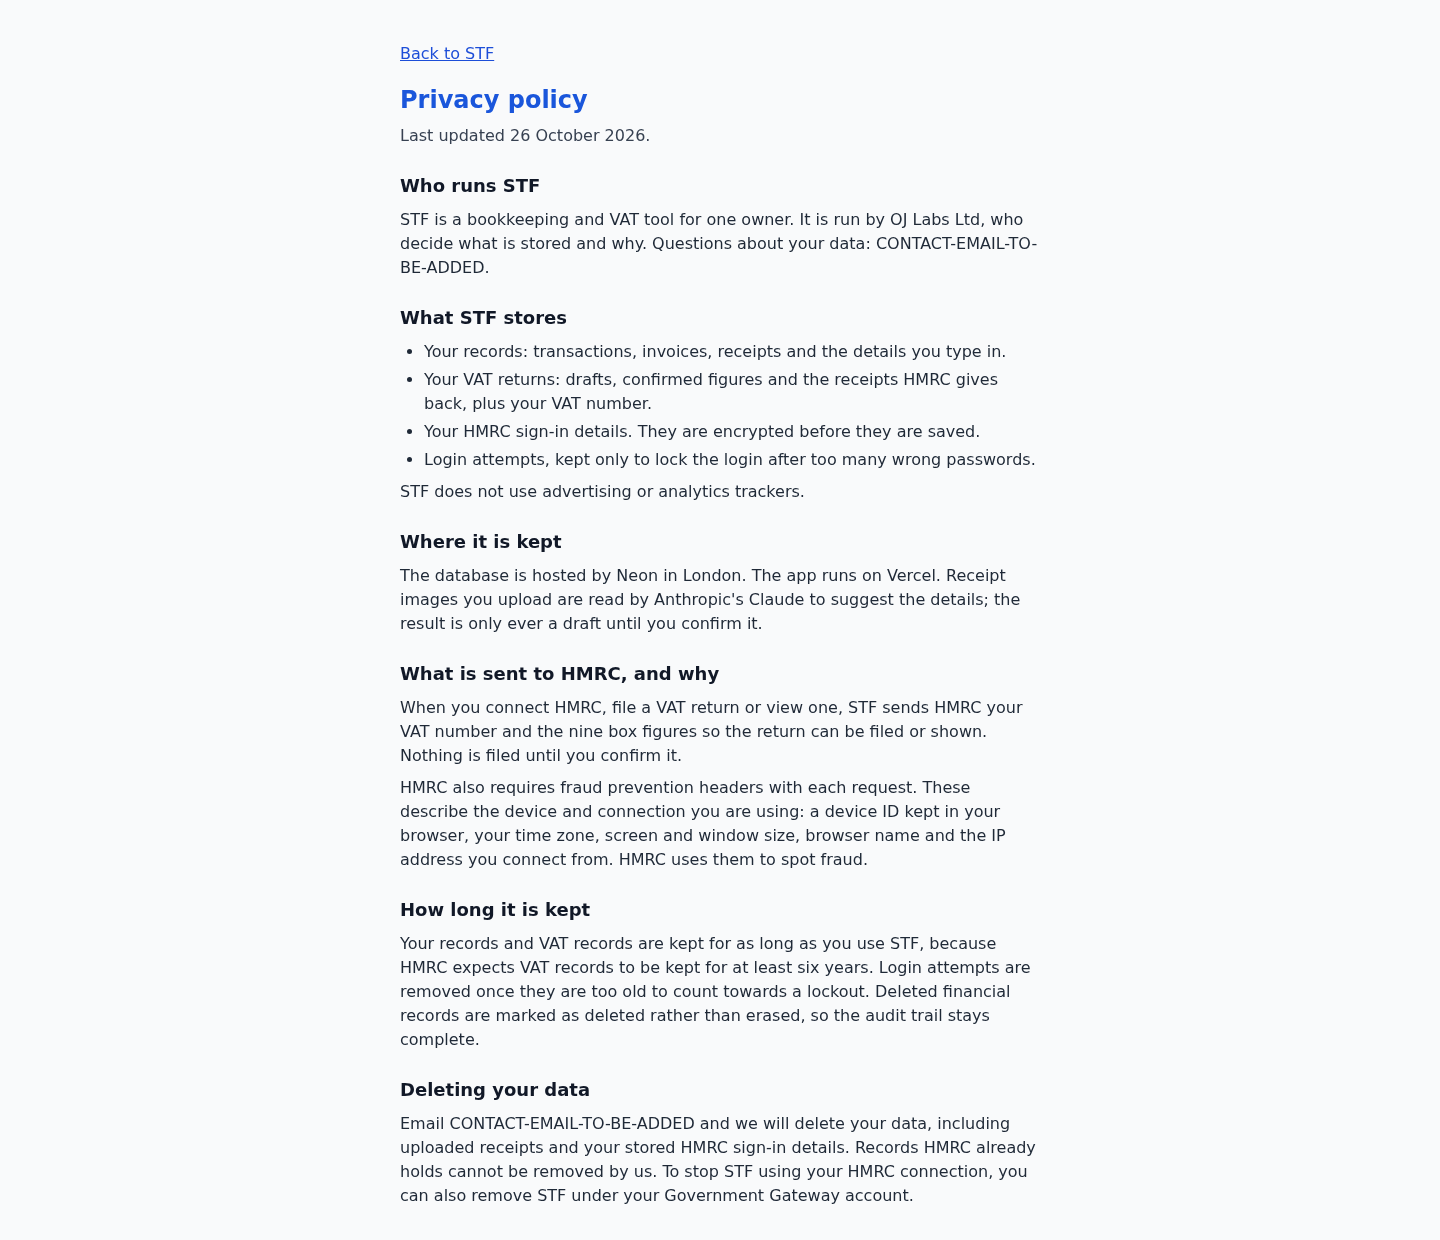
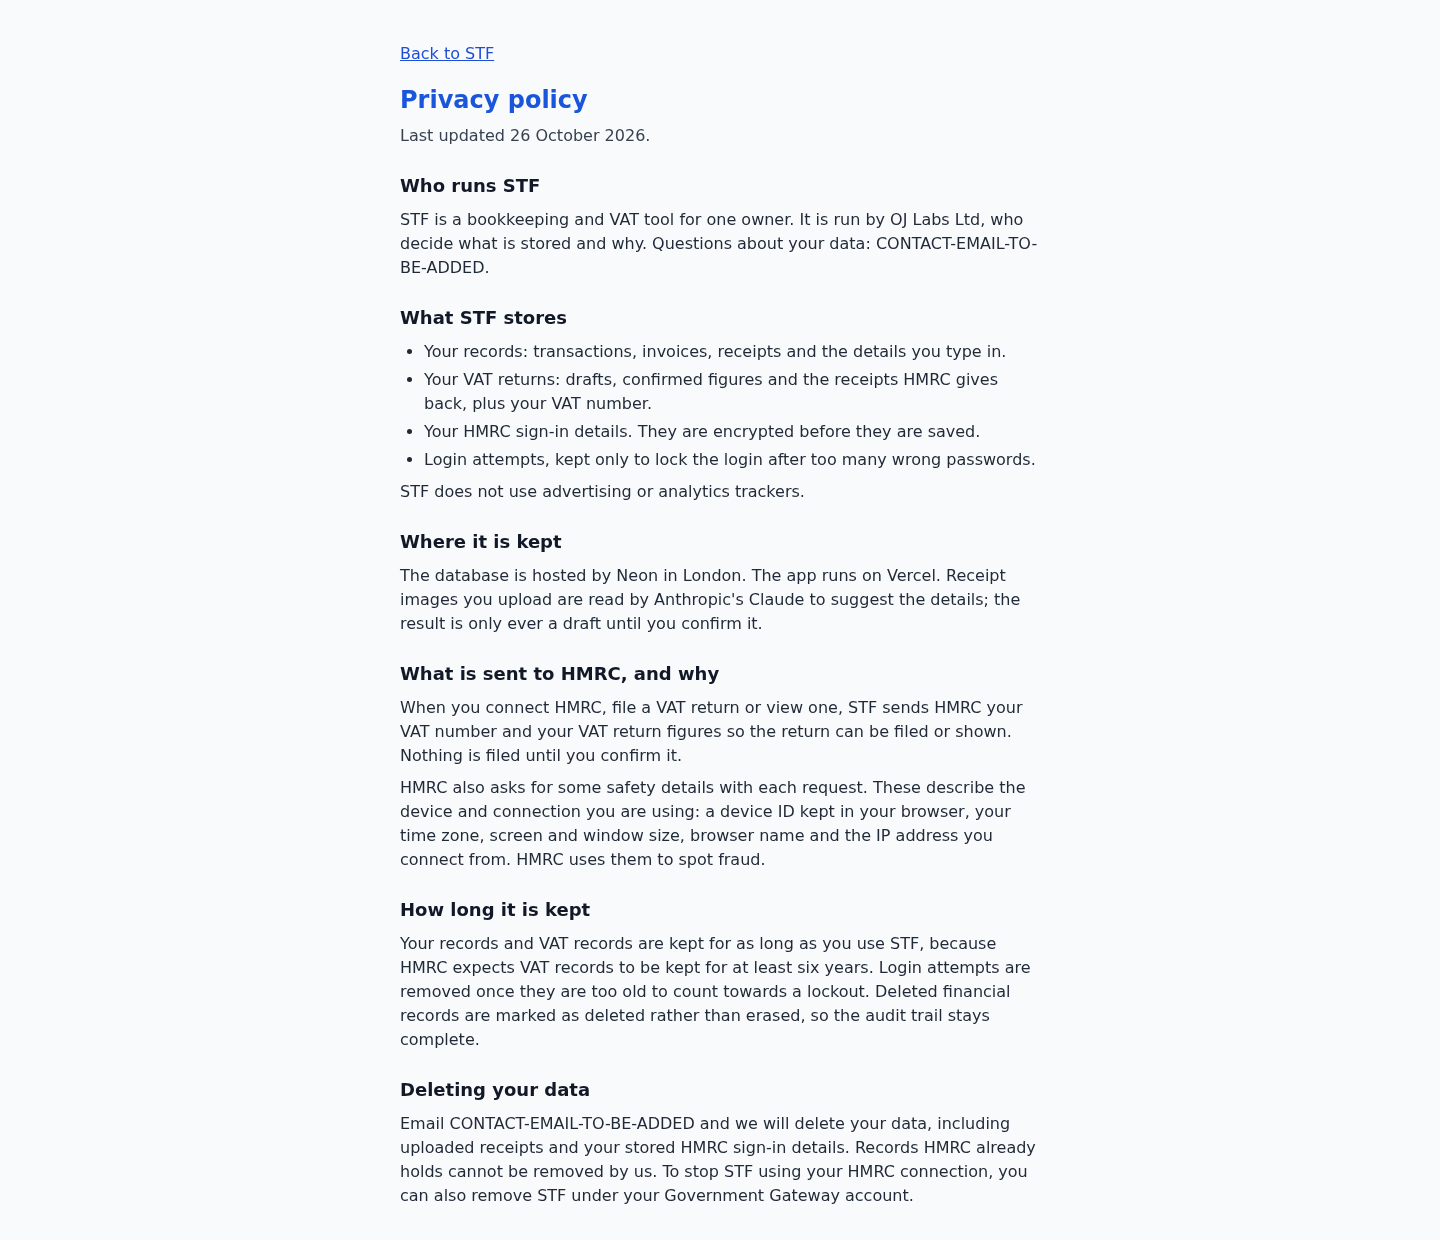
STF-120: retake screenshots from final code, plain Categories and privacy wording, empty HMRC business message

Changed region(s): [[0.2812, 0.5823, 0.7188, 0.7048]]

diff --git a/src/pages/ChartOfAccountsSection.test.tsx b/src/pages/ChartOfAccountsSection.test.tsx
@@ -77,7 +77,7 @@ describe('ChartOfAccountsSection', () => {
     fireEvent.change(screen.getByLabelText('Category number'), { target: { value: '6700' } });
     fireEvent.change(screen.getByLabelText('Name'), { target: { value: 'Parking' } });
     fireEvent.change(screen.getByLabelText('Tax category'), { target: { value: 'travel' } });
-    fireEvent.click(screen.getByRole('button', { name: 'Add account' }));
+    fireEvent.click(screen.getByRole('button', { name: 'Add category' }));
     expect(await screen.findByText('Parking')).toBeInTheDocument();
     expect(requests[0].body).toEqual({ code: '6700', name: 'Parking', accountType: 'expense', taxCategory: 'travel' });
   });
@@ -95,7 +95,7 @@ describe('ChartOfAccountsSection', () => {
     await screen.findByText('Travel');
     fireEvent.change(screen.getByLabelText('Category number'), { target: { value: '6000' } });
     fireEvent.change(screen.getByLabelText('Name'), { target: { value: 'Trips' } });
-    fireEvent.click(screen.getByRole('button', { name: 'Add account' }));
+    fireEvent.click(screen.getByRole('button', { name: 'Add category' }));
     const alert = await screen.findByRole('alert');
     expect(alert).toHaveTextContent('That code is already used');
     expect(screen.getByLabelText('Category number')).toHaveAccessibleDescription(alert.textContent!);
@@ -131,12 +131,12 @@ describe('ChartOfAccountsSection', () => {
   it('says so when there are no accounts to show', async () => {
     active = [];
     render(<ChartOfAccountsSection />);
-    expect(await screen.findByText('No accounts to show.')).toBeInTheDocument();
+    expect(await screen.findByText('No categories to show.')).toBeInTheDocument();
   });
 
   it('does not claim there are no accounts while they are loading', () => {
     render(<ChartOfAccountsSection />);
-    expect(screen.queryByText('No accounts to show.')).toBeNull();
+    expect(screen.queryByText('No categories to show.')).toBeNull();
   });
 
   it('uses no accounting jargon on screen', async () => {

diff --git a/src/pages/LegalPages.tsx b/src/pages/LegalPages.tsx
@@ -52,11 +52,11 @@ export function PrivacyPage() {
       </Section>
       <Section heading="What is sent to HMRC, and why">
         <p>
-          When you connect HMRC, file a VAT return or view one, STF sends HMRC your VAT number and the nine box figures
+          When you connect HMRC, file a VAT return or view one, STF sends HMRC your VAT number and your VAT return figures
           so the return can be filed or shown. Nothing is filed until you confirm it.
         </p>
         <p>
-          HMRC also requires fraud prevention headers with each request. These describe the device and connection you
+          HMRC also asks for some safety details with each request. These describe the device and connection you
           are using: a device ID kept in your browser, your time zone, screen and window size, browser name and the IP
           address you connect from. HMRC uses them to spot fraud.
         </p>

diff --git a/src/pages/ChartOfAccountsSection.tsx b/src/pages/ChartOfAccountsSection.tsx
@@ -94,7 +94,7 @@ export default function ChartOfAccountsSection() {
         Show archived categories
       </label>
 
-      {loaded && accounts.length === 0 && <p className="mt-4 text-gray-700">No accounts to show.</p>}
+      {loaded && accounts.length === 0 && <p className="mt-4 text-gray-700">No categories to show.</p>}
 
       {ACCOUNT_TYPE_GROUPS.map(({ type, label }) => {
         const group = accounts.filter((account) => account.accountType === type);
@@ -204,7 +204,7 @@ export default function ChartOfAccountsSection() {
             <option key={slug} value={slug}>{label}</option>
           ))}
         </select>
-        <button type="submit" className={`mt-4 ${primaryButton}`}>Add account</button>
+        <button type="submit" className={`mt-4 ${primaryButton}`}>Add category</button>
       </form>
     </section>
   );

diff --git a/src/pages/SettingsPage.tsx b/src/pages/SettingsPage.tsx
@@ -226,6 +226,9 @@ export default function SettingsPage() {
                   itsState.selectedBusinessId}
               </p>
             )}
+            {itsState && itsState.businesses.length === 0 && (
+              <p className="mt-2 text-gray-800">HMRC has no self-employment business on record for you yet.</p>
+            )}
             {itsState && !itsState.selectedBusinessId && itsState.businesses.length > 1 && (
               <form onSubmit={submitItsBusiness} className="mt-2">
                 <label htmlFor="its-business-select" className="block text-gray-900">Choose your self-employment business</label>

diff --git a/browser-evidence/STF-120/captions.md b/browser-evidence/STF-120/captions.md
@@ -1,6 +1,6 @@
 # STF-120 captions
 
-Light theme only, at 1440 and 390 px, from the mocked app in sandbox mode with invented figures. Walked from the sign-in screen as a new user.
+Light theme only, at 1440 and 390 px, from the mocked app in sandbox mode with invented figures. Retaken from the final code. Walked from the sign-in screen as a new user.
 
 - `1440-light-home.png`: Home: this year's money in, money out and tax set aside, in plain words
 - `390-light-home.png`: Home: this year's money in, money out and tax set aside, in plain words
@@ -33,6 +33,6 @@ STF ships no dark theme, so there are no dark captures (same as STF-119).
 - Home is still the old overview, not the to-do list. That is STF-122.
 - Setting up and filing are not yet guided step by step, apart from the existing quarterly update. Guided flows are separate tickets.
 - The VAT review and send screens are untouched on purpose. STF-121 rewrites them, so they are not captured here.
-- Settings still shows a few accounting-style form labels (for example Code, Add an account). They pass the jargon test; a fuller rewrite belongs with the guided setup flow.
+- Settings still has a few plain but technical form labels in the Categories section (Type, Tax category). They pass the jargon test; a fuller rewrite belongs with the guided setup flow.
 - Official names (Class 4 NIC, UTR) appear in small muted text under plain words, as the spec asks.
 - Full-page captures draw the menu in normal flow so the fixed bottom bar does not cover content.
